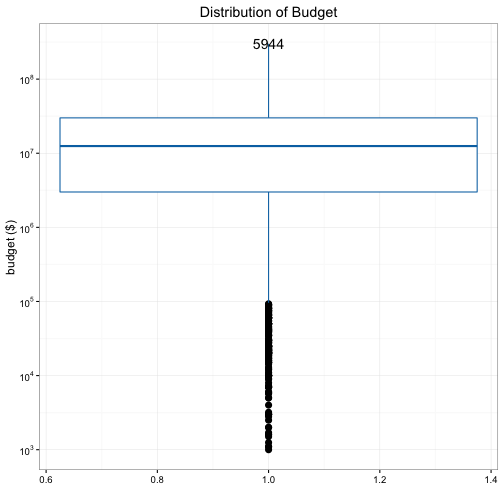
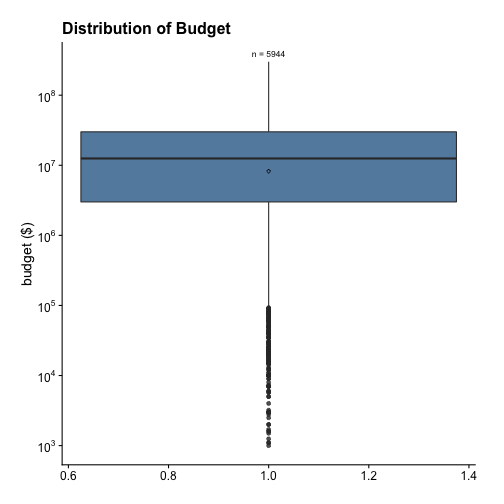
add 03-03-xxx

Changed region(s): [[0.0, 0.0, 1.0, 0.9524]]

diff --git a/manuscript/03-03-boxplot.md b/manuscript/03-03-boxplot.md
@@ -1,91 +1,82 @@
 ## Boxplot
 
-When visualizing the distribution of a continuous variable, instead of histogram or density plot, you can also use boxplot. For example, we can make a boxplot for `budget` with 5 lines of code.
+Previously, we learned how to draw histograms and density plots. When visualizing 
+the distribution of a continuous variable, there's yet another type of plot we 
+can use, namely, the boxplot. For example, we can make a boxplot for `budget`
+using `ezplot` functions as follows. 
 
-A>
 ```r
 library(ezplot)
 plt = mk_boxplot(films)
-title = "Distribution of Budget"
-p = plt(xvar="1", yvar="budget", ylab="budget ($)", main=title)
-scale_axis(p, axis="y", scale="log10")
+p = plt(yvar = "budget")
+p = add_labs(p, ylab = "budget ($)", title = "Distribution of Budget") 
+scale_axis(p, axis = "y", scale = "log10") # use log10 scale on y-axis
 ```
 
-![Distribution of Budget](images/boxplot_budget-1.png) 
+![Distribution of Budget](images/boxplot_budget-1.png)
 
-Note the usage of `scale_axis()` above. It changes the y-axis to log10 scale. Also note the usage of `xvar="1"`. The parameter `xvar` needs to take a string representing the x variable name. We pass it the string `"1"` here because we are visualizing `budget` (on the y-axis) by itself and hence don't need a x variable. The number 5944 is the number of observations in `budget`. The function `mk_boxplot()` is smart enough to figure this out and display it on the graph.
+Notice we didn't specify `xvar` inside the function `plt()`. This is because 
+the default value for `xvar` is "1" and this already allows us to visualize 
+the overall `budget` values. The number 5944 is the total number of 
+observations. If we want to show `budget` distribution by a categorical 
+variable, we can supply a value to `xvar`. Let's do an example. 
+The films were made between 1913 and 2014, and it'll be interesting to see how 
+budget changed over the years. To find out, we can draw a boxplot of `budget` 
+over `year_cat`. 
 
-Let's do an example where we require a x variable. The films are made between 1913 and 2014, so an interesting thing to look at is how the distribution of budget changes over the years. To do that, we need to draw a boxplot with `budget` on the y-axis and `year` on the x-axis. Note that we can turn off the display of the count of observations by setting the parameter `add_label = F`.
-
-A>
 ```r
-title = "Distribution of Budget from 1913 to 2014"
-p = plt("year", "budget", ylab="budget ($)", main=title, add_label = F)
-scale_axis(p, scale = "log10")
+p = plt(xvar = "year_cat", yvar = "budget")
+scale_axis(p, "y", scale = "dollar") # apply dollar scale to y-axis 
 ```
 
-![Distribution of Budget Over the Years](images/boxplot_bt_vs_year-1.png) 
+![Distribution of Budget Over the Years](images/boxplot_bt_vs_year_cat_p1-1.png)
 
-We see a general pattern of budget increase over the years, however, it seems the details are too granular and hence a bit distracting. Luckily, there's another variable called `year_cat` that aggregate `year` into 4 brackets. We can use `year_cat` instead of `year` to redraw the plot.
+We see budget has increased over the years. Also, there are 231 films released 
+between 1913 and 1950, and 4594 films released between 1990 and 2014. Yes, 
+ezplot is smart enough to tally these numbers and display them at the top of 
+each boxplot. We can choose not to show them by setting `label_size = 0` inside
+of `plt()`. Try it.  
 
-A>
+But the x variable must be character or factor type, and cannot be integer or 
+numeric. For example, if we try to plot `budget` by `year`,  it'll throw an 
+error because `year` is integer type.
+
 ```r
-table(films$year_cat)
-1913-1950 1950-1970 1970-1990 1990-2014 
-      231       243       876      4594 
+plt(xvar = "year", yvar = "budget") # throws error because "year" is integer
 ```
 
-A>
+```
+Error in plt(xvar = "year", yvar = "budget"): The x variable, year, is integer or numeric. Change to factor or character.
+```
+
+To make it work, we can change `year` to factor first. 
+
 ```r
-p = plt("year_cat", "budget", ylab="budget ($)", main=title)
-# apply comma scale to the y-axis to display the numbers in 000,000 format
-scale_axis(p, "y", scale = "comma")
+library(dplyr)
+plt = mk_boxplot(films %>% filter(year %in% 2010:2014) %>%
+                         mutate(year = factor(year))
+                 )
+plt("year", "budget", notched = T) # draw notched boxplot
 ```
 
-![Distribution of Budget Over the Years](images/boxplot_bt_vs_year_cat_p1-1.png) 
+![Distribution of Budget 2010 to 2014](images/boxplot_bt_vs_year_p1-1.png)
 
-Observe that all the boxes are squashed down, indicating `budget` is heavily right-skewed. We can use the function `scale_axis()` to apply the log10 scale on the y-axis.
+Notice the "notches" or narrowing of the box around the median. We did that by 
+setting `notched = T` inside of `plt()`. Notches are useful in offering a rough 
+guide to significance of difference of medians; if the notches of two boxes do 
+not overlap, this offers evidence of a statistically significant difference 
+between the medians.
 
-A>
-```r
-# change y-axis to log10 scale
-p = scale_axis(p, scale = "log10")
-print(p)
-```
+For homework, try the following exercises.
 
-![Distribution of Budget Over the Years](images/boxplot_bt_vs_year_cat_p2-1.png) 
-
-Finally, we can use color-blind friendly colors to color the boxes.
-
-A>
-```r
-red = cb_color("vermilion")
-green = cb_color("bluish_green")
-purple = cb_color("reddish_purple")
-blue = cb_color("blue")
-p = p + ggplot2::scale_fill_manual(values = c(red, green, purple, blue))
-print(p)
-```
-
-![Distribution of Budget Over the Years](images/boxplot_bt_vs_year_cat_p3-1.png) 
-
-Notice the numbers at the top of each boxplot, they are the sizes of the x-variable groups. For example, there are 231 films released between 1913 and 1950, and 4594 films released between 1990 and 2014. Yes, the ezplot function is smart enough to tally these numbers and display them at the top of each boxplot. We can also choose to display them at the bottom, and we can adjust their vertical distances using the `vpos` parameter. Finally, we can turn off the legend by setting `legend=F`.
-
-A>
-```r
-p = plt("year_cat", "budget", ylab="budget ($)", main=title, lab_at_top = F,
-        vpos = -0.5, legend=F)
-p = scale_axis(p, scale = "log10")
-p = p + ggplot2::scale_fill_manual(values = c(red, green, purple, blue))
-print(p)
-```
-
-![Distribution of Budget Over the Years](images/boxplot_bt_vs_year_cat_p4-1.png) 
-
-Now, it's your turn. Try the following exercises.
-
-1. Draw a plot to show how the distributions of boxoffice change over the years.
-2. Draw a plot to show how the distributions of rating change over the years.
-3. Draw a plot to show how the distributions of length change over the years.
-4. The `films` dataset has a variable named `mpaa` that records the MPAA rating of each film. What type of a variable is it? Can you draw a plot to show the distribution of boxoffice at each MPAA rating?
-5. The `films` dataset has a bunch of variables that record the genres, for example, `action`, `comedy`, and etc. Can you draw a plot to show the distribution of boxoffice for each genre?
+1. read the document of `mk_boxplot()` and run the examples. You can pull up the 
+document by running `?mk_boxplot` in Rstudio. 
+2. Draw a plot to show how the distributions of boxoffice change over the years.
+3. Draw a plot to show how the distributions of rating change over the years.
+4. Draw a plot to show how the distributions of length change over the years.
+5. The `films` dataset has a variable named `mpaa` that records the MPAA rating 
+of each film. What type of a variable is it? Can you draw a plot to show the 
+distribution of boxoffice at each MPAA rating?
+6. The `films` dataset has a bunch of variables that record the genres, 
+for example, `action`, `comedy`, and etc. Can you draw a plot to show the 
+distribution of boxoffice for each genre?
